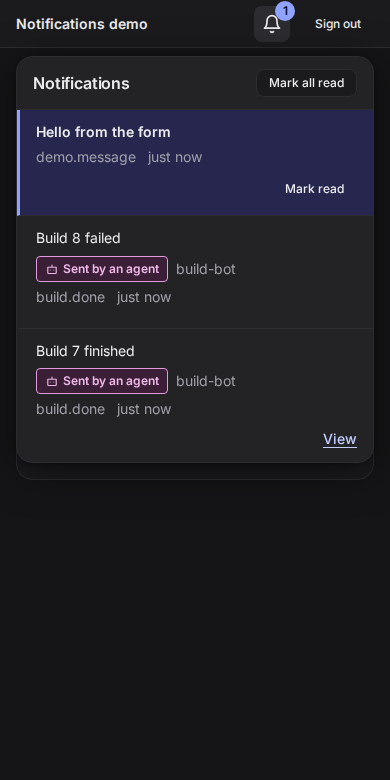
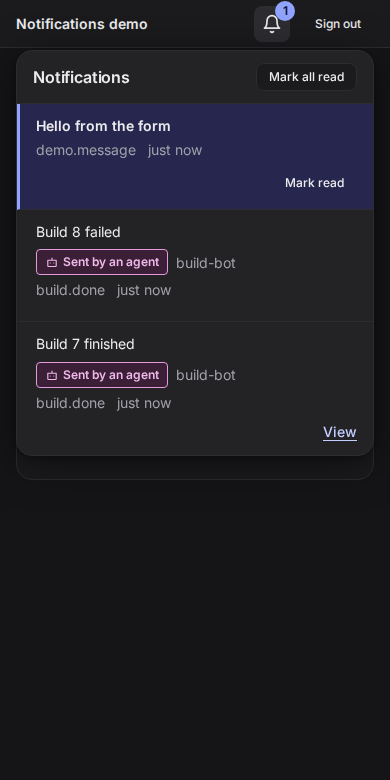
Keep focus and failures visible in the bell
Keep focus in the popover after a mark call. Name a failed load on
the closed bell. Stop mount from setting the page theme. Place the
phone popover under the bell. Check limit, pollMs and https.

diff --git a/ui/Bell.tsx b/ui/Bell.tsx
@@ -1,4 +1,4 @@
-import { useEffect, useId, useRef, useState } from "react";
+import { useEffect, type CSSProperties, useId, useRef, useState } from "react";
 import { IconButton } from "agentic-design/react";
 import { Inbox } from "./Inbox.js";
 import { useNotifications, type NotifyUiOptions } from "./useNotifications.js";
@@ -16,7 +16,7 @@ function BellIcon() {
  * A bell button with the unread count. It opens a popover with the inbox: mark one or all read,
  * an empty state, and a live refresh. Escape, a click outside, or Tab out closes it.
  */
-export function NotificationBell(options: NotifyUiOptions) {
+export function NotificationBell(options: NotifyUiOptions & { /** Which edge of the bell the popover lines up with. Default "end" (opens to the left). */ align?: "start" | "end" }) {
   const state = useNotifications(options);
   const [open, setOpen] = useState(false);
   const root = useRef<HTMLDivElement>(null);
@@ -24,7 +24,17 @@ export function NotificationBell(options: NotifyUiOptions) {
   const panel = useRef<HTMLDivElement>(null);
   const panelId = useId();
   const headingId = useId();
-  const { unread } = state;
+  const { unread, error, loading } = state;
+  const [top, setTop] = useState(0);
+  // After a mark call the focused control can vanish. Keep focus inside the popover, so Escape and Tab still work.
+  useEffect(() => {
+    if (open && document.activeElement === document.body) panel.current?.focus();
+  }, [open, state.items, state.busy]);
+  // On a phone the popover is fixed under the bell, wherever the host put it.
+  useEffect(() => {
+    if (open) setTop((button.current?.getBoundingClientRect().bottom ?? 0) + 8);
+  }, [open]);
+  const status = error ? (unread > 0 ? `${unread} unread, could not refresh` : "could not load") : unread > 0 ? `${unread} unread` : "";
 
   useEffect(() => {
     if (!open) return;
@@ -55,7 +65,7 @@ export function NotificationBell(options: NotifyUiOptions) {
         <IconButton
           ref={button}
           variant="ghost"
-          label={unread > 0 ? `Notifications, ${unread} unread` : "Notifications"}
+          label={status ? `Notifications, ${status}` : "Notifications"}
           tooltip={false}
           icon={<BellIcon />}
           aria-haspopup="dialog"
@@ -66,17 +76,17 @@ export function NotificationBell(options: NotifyUiOptions) {
             if (!open) void state.refresh();
           }}
         />
-        {unread > 0 && (
+        {(unread > 0 || error) && (
           <span className="agd-notify__count" aria-hidden="true">
-            {unread > 99 ? "99+" : unread}
+            {unread > 0 ? (unread > 99 ? "99+" : unread) : "!"}
           </span>
         )}
       </span>
       <span className="agd-sr-only" role="status">
-        {unread > 0 ? `${unread} unread notifications` : "No unread notifications"}
+        {loading ? "" : error ? `Notifications ${status}` : unread > 0 ? `${unread} unread notifications` : "No unread notifications"}
       </span>
       {open && (
-        <div ref={panel} id={panelId} className="agd-notify__panel" role="dialog" aria-labelledby={headingId} tabIndex={-1}>
+        <div ref={panel} id={panelId} className="agd-notify__panel" data-align={options.align ?? "end"} style={{ "--agd-notify-top": `${top}px` } as CSSProperties} role="dialog" aria-labelledby={headingId} tabIndex={-1}>
           <Inbox state={state} headingId={headingId} />
         </div>
       )}

diff --git a/e2e-ui/bell.ui.spec.ts b/e2e-ui/bell.ui.spec.ts
@@ -68,9 +68,17 @@ test("bell: sign in, live update, read one, read all, keyboard, phone width", as
   await audit(page, "03-inbox");
 
   // Mark one read.
-  await panel.getByRole("button", { name: "Mark read: Build 7 finished" }).click();
+  await panel.getByRole("button", { name: "Mark read: Build 7 finished" }).focus();
+  await page.keyboard.press("Enter");
   await expect(page.getByRole("button", { name: "Notifications, 1 unread" })).toBeVisible();
   await expect(panel.getByRole("button", { name: /^Mark read:/ })).toHaveCount(1);
+  // The focused button is gone: focus stays in the popover, so Escape still closes it.
+  await expect(panel).toBeFocused();
+  await page.keyboard.press("Escape");
+  await expect(panel).toBeHidden();
+  await expect(page.getByRole("button", { name: "Notifications, 1 unread" })).toBeFocused();
+  await page.keyboard.press("Enter");
+  await expect(panel).toBeFocused();
 
   // Mark all read.
   await panel.getByRole("button", { name: "Mark all read" }).click();
@@ -106,7 +114,10 @@ test("bell: a refused token shows an alert, not an empty inbox", async ({ page }
   await page.goto("/ui/");
   await page.evaluate((t) => sessionStorage.setItem("notify-demo-token", t), "revoked-token-0123456789-0123456789-0123");
   await page.reload();
-  await page.getByRole("button", { name: "Notifications", exact: true }).click();
+  // A failed load is not "nothing unread": the bell says so before it is opened.
+  const failed = page.getByRole("button", { name: "Notifications, could not load" });
+  await expect(failed).toBeVisible();
+  await failed.click();
   const panel = page.getByRole("dialog", { name: "Notifications" });
   await expect(panel.getByRole("alert")).toContainText("The token was not accepted");
   await expect(panel.getByText("You are all caught up")).toHaveCount(0);

diff --git a/ui/useNotifications.ts b/ui/useNotifications.ts
@@ -7,9 +7,9 @@ export interface NotifyUiOptions {
   baseUrl: string;
   /** Called before each request. Return the bearer token of the signed-in person or agent. The server checks every call against it. */
   getToken: () => string | Promise<string>;
-  /** Milliseconds between refreshes while the page is visible. Default 15000. Use 0 to turn polling off. */
+  /** Milliseconds between refreshes while the page is visible. Default 15000. Use 0 to turn polling off, or at least 1000. */
   pollMs?: number;
-  /** How many notifications the list holds. Default 20. */
+  /** How many notifications the list holds. Default 20, from 1 to 100. */
   limit?: number;
   /** A fetch to use in place of the global one. */
   fetch?: typeof fetch;
@@ -44,6 +44,12 @@ export function checkOptions(options: NotifyUiOptions): void {
   createClient({ baseUrl: options.baseUrl, token: "check" });
   const url = new URL(options.baseUrl);
   if (url.username || url.password) throw new TypeError("baseUrl must not hold user info");
+  // The bearer token crosses this link on every poll. Plain http is for a local Worker only.
+  const local = ["localhost", "127.0.0.1", "[::1]"].includes(url.hostname);
+  if (url.protocol !== "https:" && !(url.protocol === "http:" && local)) throw new TypeError("baseUrl must use https");
+  const { pollMs, limit } = options;
+  if (pollMs !== undefined && !(pollMs === 0 || (Number.isFinite(pollMs) && pollMs >= 1000))) throw new TypeError("pollMs must be 0 or at least 1000");
+  if (limit !== undefined && !(Number.isInteger(limit) && limit >= 1 && limit <= 100)) throw new TypeError("limit must be a whole number from 1 to 100");
 }
 
 /**

diff --git a/ui/embed.tsx b/ui/embed.tsx
@@ -2,7 +2,7 @@
 // design stylesheet `agentic-design/styles.css` too. React is a peer dependency.
 import { StrictMode } from "react";
 import { createRoot } from "react-dom/client";
-import { ThemeProvider, TooltipProvider } from "agentic-design/react";
+import { TooltipProvider } from "agentic-design/react";
 import "./app.css";
 import { NotificationBell } from "./Bell.js";
 import { checkOptions, type NotifyUiOptions } from "./useNotifications.js";
@@ -18,7 +18,7 @@ export interface MountedBell {
   unmount(): void;
 }
 
-/** Render the bell into an element, for an app that does not use React itself. */
+/** Render the bell into an element, for an app that does not use React itself. It does not set the page theme: the tokens follow the page's `data-theme` or the system setting. */
 export function mount(element: HTMLElement, options: NotifyUiOptions): MountedBell {
   if (!(element instanceof HTMLElement)) throw new TypeError("mount needs an element to render into");
   checkOptions(options);
@@ -26,11 +26,9 @@ export function mount(element: HTMLElement, options: NotifyUiOptions): MountedBe
   const render = (next: NotifyUiOptions) =>
     root.render(
       <StrictMode>
-        <ThemeProvider>
-          <TooltipProvider>
-            <NotificationBell key={next.baseUrl} {...next} />
-          </TooltipProvider>
-        </ThemeProvider>
+        <TooltipProvider>
+          <NotificationBell key={next.baseUrl} {...next} />
+        </TooltipProvider>
       </StrictMode>,
     );
   render(options);

diff --git a/ui/app.css b/ui/app.css
@@ -37,11 +37,12 @@
   font-family: var(--agd-font-family-sans);
 }
 /* The panel is a container that takes focus when it opens. The controls inside show their own focus ring. */
+.agd-notify__panel[data-align="start"] { right: auto; left: 0; }
 .agd-notify__panel:focus { outline: none; }
 /* On a phone the panel spans the screen under the top bar, so it never runs off the edge. */
 @media (max-width: 30rem) {
   .agd-notify { position: static; }
-  .agd-notify__panel { position: fixed; top: calc(var(--agd-size-topbar) + var(--agd-space-2)); right: var(--agd-space-4); left: var(--agd-space-4); width: auto; }
+  .agd-notify__panel { position: fixed; top: var(--agd-notify-top, var(--agd-size-topbar)); right: var(--agd-space-4); left: var(--agd-space-4); width: auto; }
 }
 .agd-notify__inbox { display: flex; flex-direction: column; min-height: 0; }
 .agd-notify__head { display: flex; align-items: center; justify-content: space-between; gap: var(--agd-space-3); padding: var(--agd-space-3) var(--agd-space-4); border-bottom: 1px solid var(--agd-color-border); }

diff --git a/ui/Inbox.tsx b/ui/Inbox.tsx
@@ -57,7 +57,7 @@ function Item({ n, busy, onRead }: { n: Notification; busy: boolean; onRead(id: 
           </a>
         )}
         {unread && (
-          <Button size="sm" variant="ghost" disabled={busy} aria-label={`Mark read: ${n.body}`} onClick={() => onRead(n.id)}>
+          <Button size="sm" variant="ghost" aria-disabled={busy || undefined} aria-label={`Mark read: ${n.body}`} onClick={() => !busy && onRead(n.id)}>
             Mark read
           </Button>
         )}
@@ -75,7 +75,7 @@ export function Inbox({ state, headingId }: { state: NotificationsState; heading
         <h2 id={headingId} className="agd-notify__title">
           Notifications
         </h2>
-        <Button size="sm" variant="secondary" disabled={busy || unread === 0} onClick={() => void markAllRead()}>
+        <Button size="sm" variant="secondary" disabled={unread === 0} aria-disabled={busy || undefined} onClick={() => !busy && void markAllRead()}>
           Mark all read
         </Button>
       </div>

diff --git a/README.md b/README.md
@@ -138,6 +138,10 @@ import "agentic-notify/ui.css";
 
 - The Worker sends no CORS headers. Serve the bell from the Worker's own origin, or put the Worker behind a proxy on your app's origin. A cross-origin page cannot call it, and the popover then shows a load error.
 - `getToken` runs before each request. Return the key of the signed-in person or agent. The server checks every call.
+- `baseUrl` must be `https:`. Plain `http:` works for localhost only. A bad `baseUrl`, `pollMs` or `limit` throws a `TypeError`.
+- `align` (`"start"` or `"end"`) sets which edge of the bell the popover lines up with. On a phone the popover spans the width under the bell.
+- The bell name says "could not load" when a call fails, so a failure never reads as an empty inbox.
+- `mount` does not change the page theme.
 - `pollMs` sets the refresh interval (default 15000, 0 turns it off). The page refreshes when the tab becomes visible. `limit` sets the list size (default 20).
 - A refused or failed call shows an alert in the popover. The list never shows a failed call as success.
 - Notifications from an agent carry the words "Sent by an agent".
